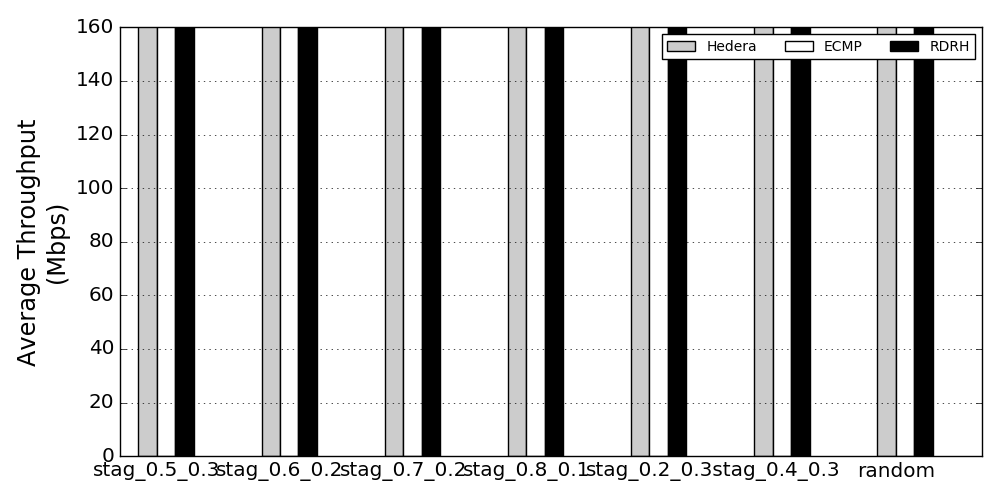
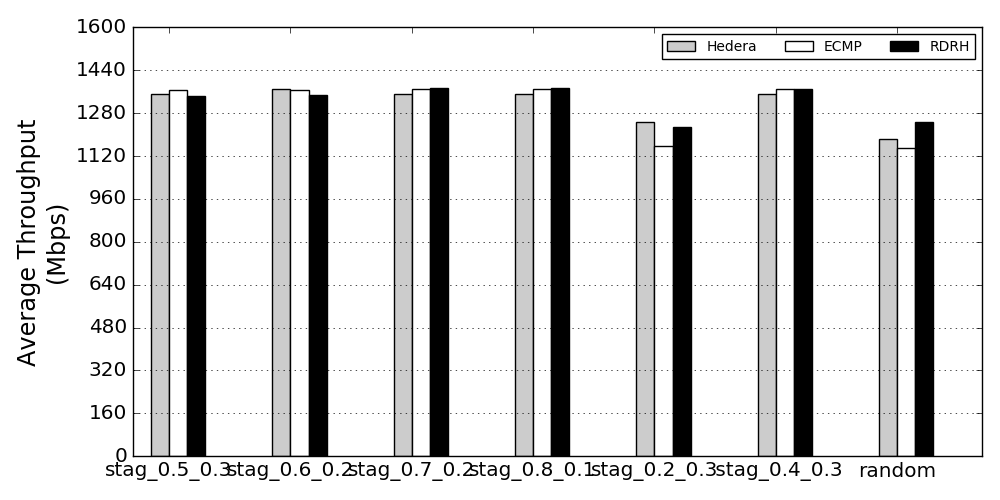
update bw

Changed region(s): [[0.062, 0.03, 0.961, 0.96], [0.868, 0.06, 0.93, 0.09], [0.744, 0.06, 0.806, 0.09]]

diff --git a/plot_results.py b/plot_results.py
@@ -364,7 +364,7 @@ def plot_results():
 	"""
 
 
-	full_bisection_bw = 1000.0 * (args.k ** 3 / 4)   # (unit: Mbit/s)
+	full_bisection_bw = 100.0 * (args.k ** 3 / 4)   # (unit: Mbit/s)
 	utmost_throughput = full_bisection_bw * args.duration
 #	_traffics = "stag1_0.5_0.3 stag2_0.5_0.3 stag3_0.5_0.3 stag4_0.5_0.3 stag5_0.5_0.3 stag6_0.5_0.3 stag7_0.5_0.3 stag8_0.5_0.3 stag9_0.5_0.3 stag10_0.5_0.3 stag11_0.5_0.3 stag12_0.5_0.3 stag13_0.5_0.3 stag14_0.5_0.3 stag15_0.5_0.3 stag16_0.5_0.3 stag17_0.5_0.3 stag18_0.5_0.3 stag19_0.5_0.3 stag20_0.5_0.3 stag1_0.6_0.2 stag2_0.6_0.2 stag3_0.6_0.2 stag4_0.6_0.2 stag5_0.6_0.2 stag6_0.6_0.2 stag7_0.6_0.2 stag8_0.6_0.2 stag9_0.6_0.2 stag10_0.6_0.2 stag11_0.6_0.2 stag12_0.6_0.2 stag13_0.6_0.2 stag14_0.6_0.2 stag15_0.6_0.2 stag16_0.6_0.2 stag17_0.6_0.2 stag18_0.6_0.2 stag19_0.6_0.2 stag20_0.6_0.2 stag1_0.7_0.2 stag2_0.7_0.2 stag3_0.7_0.2 stag4_0.7_0.2 stag5_0.7_0.2 stag6_0.7_0.2 stag7_0.7_0.2 stag8_0.7_0.2 stag9_0.7_0.2 stag10_0.7_0.2 stag11_0.7_0.2 stag12_0.7_0.2 stag13_0.7_0.2 stag14_0.7_0.2 stag15_0.7_0.2 stag16_0.7_0.2 stag17_0.7_0.2 stag18_0.7_0.2 stag19_0.7_0.2 stag20_0.7_0.2 stag1_0.8_0.1 stag2_0.8_0.1 stag3_0.8_0.1 stag4_0.8_0.1 stag5_0.8_0.1 stag6_0.8_0.1 stag7_0.8_0.1 stag8_0.8_0.1 stag9_0.8_0.1 stag10_0.8_0.1 stag11_0.8_0.1 stag12_0.8_0.1 stag13_0.8_0.1 stag14_0.8_0.1 stag15_0.8_0.1 stag16_0.8_0.1 stag17_0.8_0.1 stag18_0.8_0.1 stag19_0.8_0.1 stag20_0.8_0.1"
 #	_traffics = "stag1_0.2_0.3 stag1_0.7_0.2"
